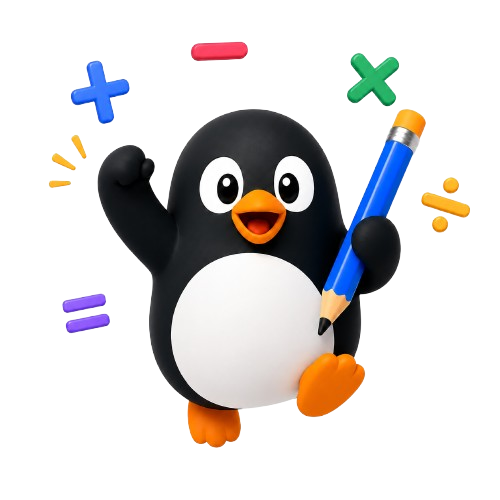
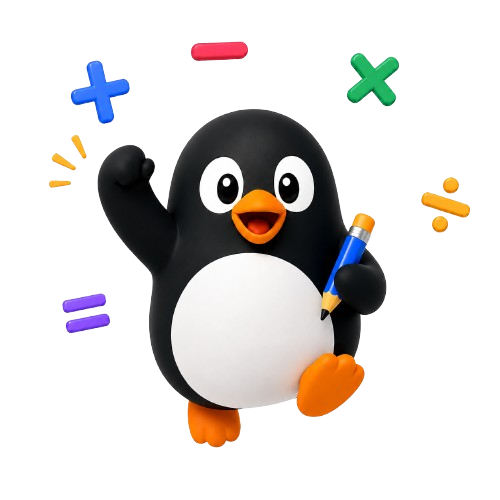
Fix desktop scroll regression, unify Home into the responsive var system, document the pitfall
Root cause: HomePage's desktop mascot enlargement used a plain sm:max-w-[320px]
override, verified only at a tall test window -- never re-checked against a
short desktop window. PageShell caps card height at calc(100vh-4rem) on
desktop, so a common 1366x768 laptop window only has 704px of real space;
the override produced up to 144px of overflow there, and the compact/
comfortable media query threshold (mobile-only tuned) didn't kick in soon
enough on desktop to compensate for that 64px tax.

Removed the hardcoded override, let Home's mascot use the same --home-*
var system as everything else, and widened the compact-tier trigger to
`(max-height: 700px), (min-width: 640px) and (max-height: 900px)` so
desktop gets compact treatment across the realistic laptop-height range.
Re-verified 0 scroll at SE (375x667), common laptop (1366x768), and a
tall desktop window (1280x1200), plus re-confirmed Room/Lobby didn't
regress.

Documented the whole pitfall and the re-test checklist in CLAUDE.md so
future screens don't repeat it.

Also applied the latest gamestart.png/og-image.png revisions.

Changed region(s): [[0.63, 0.21, 0.87, 0.69]]

diff --git a/frontend/src/index.css b/frontend/src/index.css
@@ -50,9 +50,14 @@ textarea {
 }
 
 /*
-  Room 대기방 화면 전용 공간 토큰.
-  기본값은 여유 있는 폰(높이 700px+)용이고, 아이폰 SE 같은 짧은 화면에서만
-  자동으로 압축값으로 전환되어 스크롤 없이 한 화면에 들어가게 한다.
+  화면별 반응형 공간 토큰. 기본값은 여유 있는 화면(높이 700px+)용이고,
+  아이폰 SE 같은 짧은 화면에서만 자동으로 압축값으로 전환되어
+  스크롤 없이 한 화면에 들어가게 한다.
+
+  데스크탑(폭 640px 이상)에서는 PageShell 카드가 "창 높이 - 4rem(64px)"로
+  높이가 제한되므로, 압축 전환 기준을 그만큼(700px + 64px = 764px) 올려서
+  써야 실제 카드 안에서도 700px짜리 여유 공간이 보장된다.
+  두 조건을 media query list(콤마 = OR)로 묶어 하나의 규칙으로 처리한다.
 */
 :root {
   --room-avatar: 3.5rem;
@@ -73,7 +78,7 @@ textarea {
   --lobby-list-mt: 1.25rem;
 }
 
-@media (max-height: 700px) {
+@media (max-height: 700px), (min-width: 640px) and (max-height: 900px) {
   :root {
     --room-avatar: 2.75rem;
     --room-pad: 0.5rem;

diff --git a/frontend/src/pages/HomePage.tsx b/frontend/src/pages/HomePage.tsx
@@ -99,7 +99,7 @@ export default function HomePage() {
           <img
             src={penguinLanding}
             alt="99 Battle 마스코트"
-            className="w-full max-w-[var(--home-mascot-size)] sm:max-w-[320px]"
+            className="w-full max-w-[var(--home-mascot-size)]"
           />
         </div>
 

diff --git a/CLAUDE.md b/CLAUDE.md
@@ -32,3 +32,55 @@ Read these before implementation.
 ## Important
 
 Never implement features that are not defined in the documents without asking first.
+
+## No-Scroll Policy (established via user feedback)
+
+The document/page itself must never scroll. The only sanctioned exception is a
+genuinely unbounded list (e.g. the public room list), where a self-contained
+inner region scrolls while the header/footer stay pinned — everything else
+(Home, Room, CreateRoom, and any future screen) must fit its viewport exactly.
+
+### How it's implemented
+
+`frontend/src/index.css` defines a shared set of CSS custom properties
+(`--room-*`, `--home-*`, `--lobby-*`) that pages reference via
+`className="...-[var(--foo)]"` instead of hardcoded Tailwind spacing. Two
+tiers exist:
+
+- **Comfortable** (`:root` defaults) — used on tall-enough screens.
+- **Compact** — overrides triggered by
+  `@media (max-height: 700px), (min-width: 640px) and (max-height: 900px)`.
+
+### The desktop trap (bit us once — don't repeat it)
+
+`PageShell` caps its card at `sm:max-h-[calc(100vh-4rem)]` on desktop widths
+(≥640px), so **the usable height on desktop is always 64px less than the raw
+window height** — mobile has no such cap. A breakpoint tuned only against raw
+mobile heights (e.g. "compact below 700px") is silently wrong on desktop: a
+1366×768 laptop window (a very common size) only has 704px of real card
+height, well inside what "comfortable" mode assumes will fit. This is why the
+compact media query above has two branches — the second one (`min-width:640px
+and max-height:900px`) exists specifically to compensate for that 64px tax on
+desktop, not to duplicate the mobile rule.
+
+**Do not add a `sm:`-only override (e.g. `sm:max-w-[320px]`) to make
+something bigger on desktop without also re-measuring at a short desktop
+window (1366×768 is the realistic worst case, not just a tall 1280×1200
+window).** That exact mistake caused a real regression once — a desktop-only
+enlarged mascot image was verified only against a tall window and broke on
+ordinary laptop heights.
+
+### Checklist before calling a new/changed screen done
+
+Measure `document.documentElement.scrollHeight - window.innerHeight` (expect
+`0`) at minimum:
+
+1. 375×667 (iPhone SE — smallest realistic mobile)
+2. 1366×768 (most common laptop height — the desktop case most likely to break)
+3. 1280×1200 or similar (confirms "comfortable" tier's true content height,
+   with no cap interference, so you know what threshold it actually needs)
+
+If a screen has a genuinely unbounded list, it should use the same pattern as
+`LobbyPage`'s public room list: an explicit `h-dvh` / `sm:h-[calc(100vh-4rem)]`
+wrapper with `overflow-hidden`, and only the list itself scrolls
+(`overflow-y-auto`), never the outer page.
